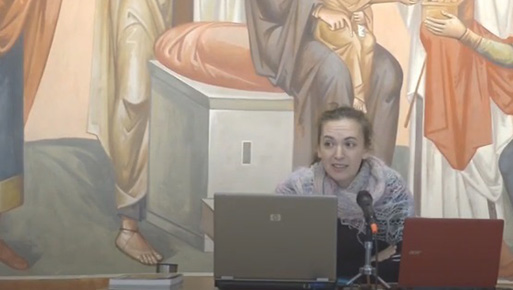
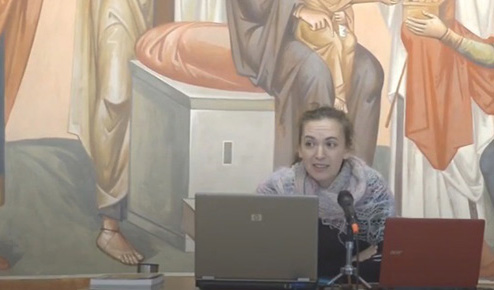
In En version video2 replaced by video-vissarion. Video covers sizes unified.

diff --git a/en/index.html b/en/index.html
@@ -112,16 +112,16 @@
 
         <div class="video__item">
             <div id="light-2" class="lightbox__light">
-                <iframe id="video-2" class="lightbox__iframe" src="https://www.youtube.com/embed/jqppnoqoNME" frameborder="0" allow="accelerometer; autoplay; encrypted-media; gyroscope; picture-in-picture" allowfullscreen></iframe>
+                <iframe id="video-2" class="lightbox__iframe" src="https://www.youtube.com/embed/hvqriKCoZr8" frameborder="0" allow="accelerometer; autoplay; encrypted-media; gyroscope; picture-in-picture" allowfullscreen></iframe>
             </div>
             <div id="fade-2" class="lightbox__fade" onClick="lightbox_close2();">
                 <a class="lightbox__closex" onclick="lightbox_close2();"></a> 
             </div>
             <div id="video_wrapper-2" class="video__wrapper">
-                <iframe class="wrapper__iframe" width="560" height="315" src="https://www.youtube.com/embed/jqppnoqoNME" frameborder="0" allow="accelerometer; autoplay; encrypted-media; gyroscope; picture-in-picture" allowfullscreen></iframe>
+                <iframe class="wrapper__iframe" width="560" height="315" src="https://www.youtube.com/embed/hvqriKCoZr8" frameborder="0" allow="accelerometer; autoplay; encrypted-media; gyroscope; picture-in-picture" allowfullscreen></iframe>
             </div>
             <div id="video_overlay-2" class="video__overlay">
-                <img class="video__img" src="../ravenna-images/video_overlay_kultura_small1.jpg" alt="CultUre program">
+                <img class="video__img" src="../ravenna-images/video_vissarion.jpg" alt="St. Vissarion">
                 <div class="video__icon-container" onclick="lightbox_open2();"><i class="fa fa-youtube-play" aria-hidden="true"></i></div>
             </div>
         </div>
